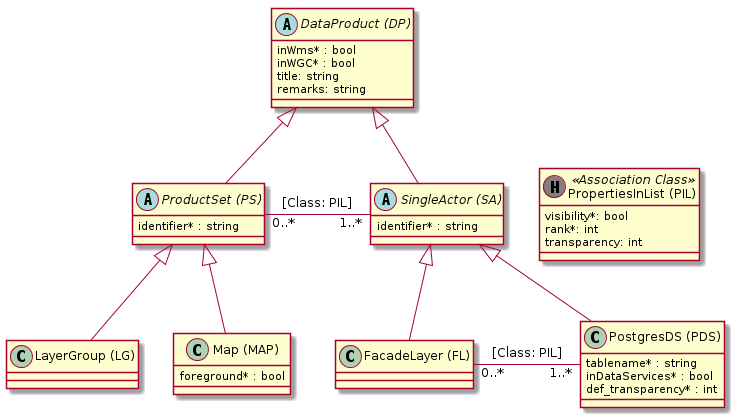
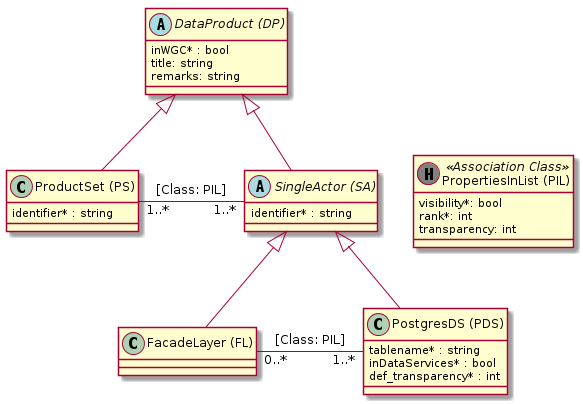
Simplified proto models

diff --git a/framework_protos.md b/framework_protos.md
@@ -33,7 +33,7 @@ See ![Modelle](modelle.md) concerning the documentation of the origin models (in
 Changes since V1:
 * New entity DataSetList (DSL)
 * New mandatory field "qml_content" on PostgresDS. With "select file from disc" functionality.
-* Moves the identifier field from SA and PS up to DP
+* Moved the identifier field from SA and PS up to DP
 
 ![Model V2](puml_output/proto_model_v2.png)
 
